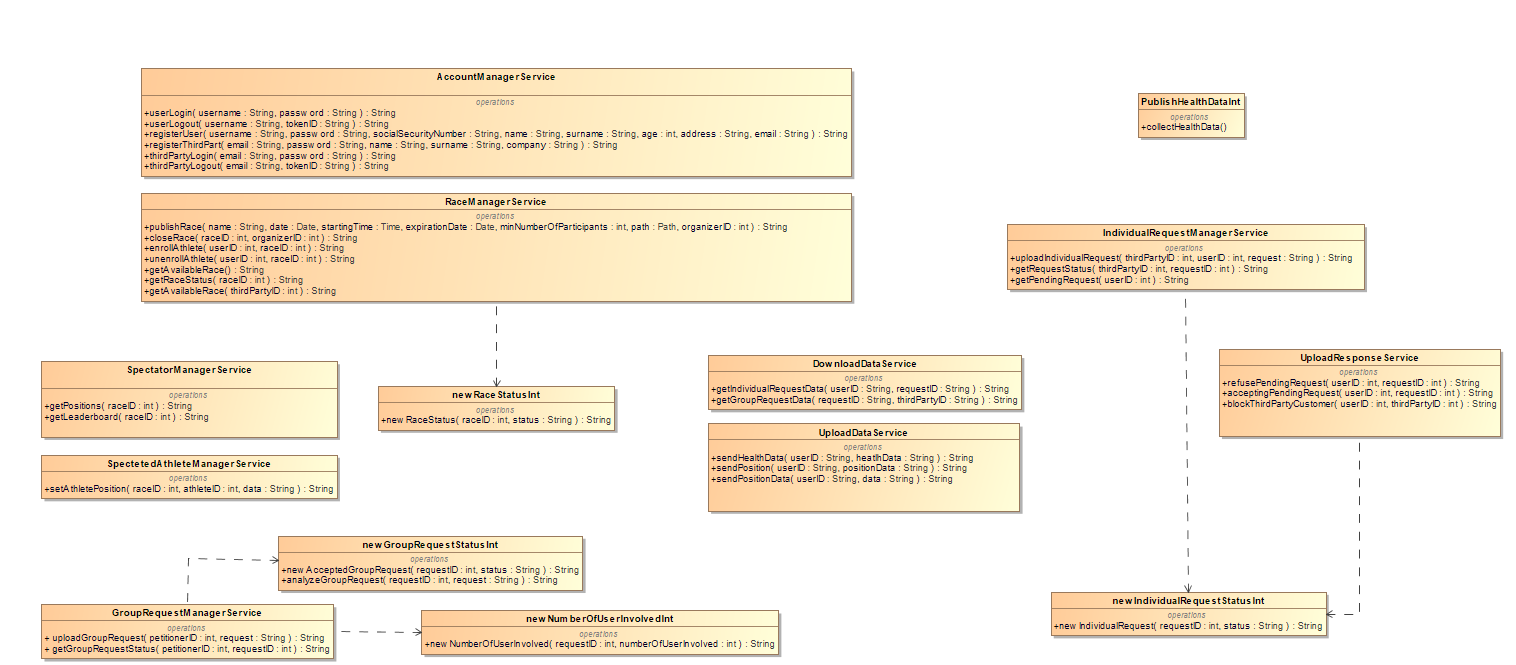
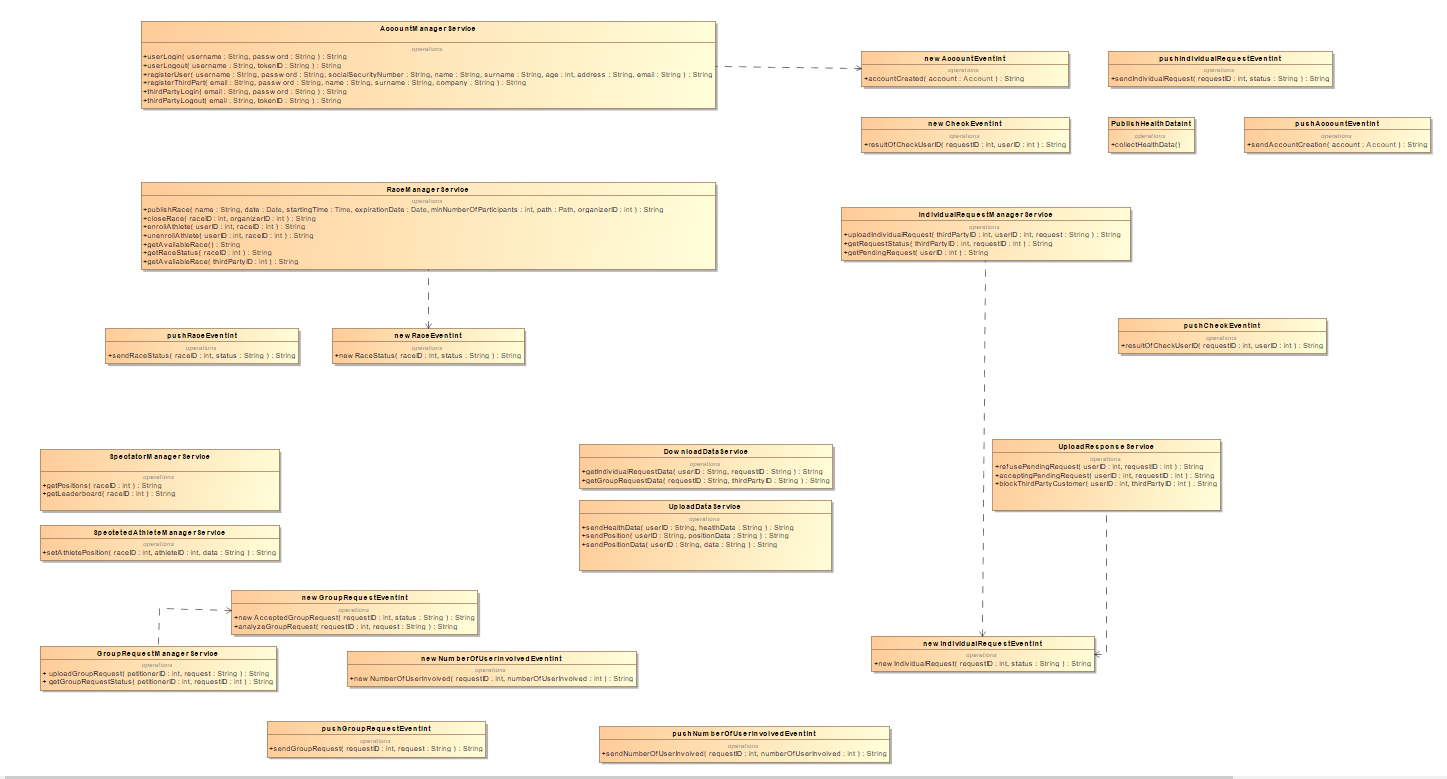
Fix component interfaces

diff --git a/DD/uiDesign.tex b/DD/uiDesign.tex
@@ -1,8 +1,6 @@
 \section{User interface design}
-Since the application is thought as a set of  microservices, the user interface may be designed according to this style. 
+Since the application is thought as a set of  microservices, the user interface may be designed according to
+this style. 
 For this reason, composition UI generated by microservices, will be adopted. 
-With a composition approach, frontend application is divided into modules, one for each service, and each module is developed independently by a separate member of a team. 
-Each member takes the whole responsibility for their product. 
-So he develops not only backend logic but also provides an endpoint which serves fragment with their piece of frontend. 
-Then, the UI is assembled using some low level server-side, like a AppGateway. 
-The mock-ups for this application were presented in the RASD Document in section 3.1.1. 
+With a composition approach, frontend application is divided into modules, one for each service.  \\
+The mock-ups for the application are available in the RASD, section 3.1.1. 

diff --git a/DD/archDesign/componentInterfaces.tex b/DD/archDesign/componentInterfaces.tex
@@ -12,4 +12,5 @@ In order to simplify the diagram, the API gateway has been excluded, but what it
 interface that is external w.r.t. the microservices block in figure \ref{fig:componentdiagram}. However, there is a little modification in the
 parameters requested: indeed, the id of the client that is requesting the service (e.g. userID, thirdPartyID, athleteID) is substituted with
 tokenID, in order to manage the authentication. This holds, clearly, with the exception of the registration and login feature, since a token 
-is not available at this early stage of the user session.
+is not available at this early stage of the user session. \\ 
+A same reasoning is applied for what concerns the router: it just forwards the "translated" requests.
